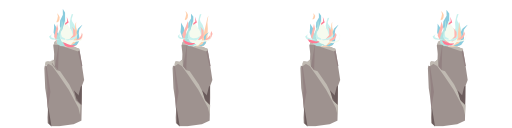
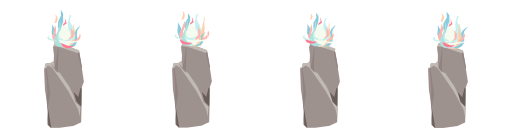
updated pedestal and speed

diff --git a/core/src/edu/cornell/gdiac/physics/host/HostModel.java b/core/src/edu/cornell/gdiac/physics/host/HostModel.java
@@ -168,7 +168,7 @@ public class HostModel extends BoxObstacle {
      * (animation framerate is the framerate of the game divided by this value)
      * 4 seems to look pretty good
      */
-    private int framesPerUpdate = 4;
+    private int framesPerUpdate = 8;
 
     /**
      * Whether or not the animation should be updated on this frame
@@ -553,7 +553,7 @@ public class HostModel extends BoxObstacle {
 
     public void setPedestalStrip(FilmStrip strip) {
         this.pedestalHost = strip;
-        pedestalHost.setFrame(4);
+        pedestalHost.setFrame(0);
     }
 
     /**
@@ -803,11 +803,19 @@ public class HostModel extends BoxObstacle {
      * Strip animation for pedestal
      */
     public void animateStrip() {
-        if(this.pedestalHost.getFrame() < this.pedestalHost.getSize() - 1) {
-            this.pedestalHost.setFrame(this.pedestalHost.getFrame() + 1);
+        elapsedFrames++;
+        updateFrame = false;
+        System.out.println(elapsedFrames);
+        if (elapsedFrames >= framesPerUpdate) {
+            updateFrame = true;
+            elapsedFrames = 0;
         }
-        else {
-            this.pedestalHost.setFrame(0);
+        if(updateFrame) {
+            if (this.pedestalHost.getFrame() < this.pedestalHost.getSize() - 1) {
+                this.pedestalHost.setFrame(this.pedestalHost.getFrame() + 1);
+            } else {
+                this.pedestalHost.setFrame(0);
+            }
         }
     }
 
